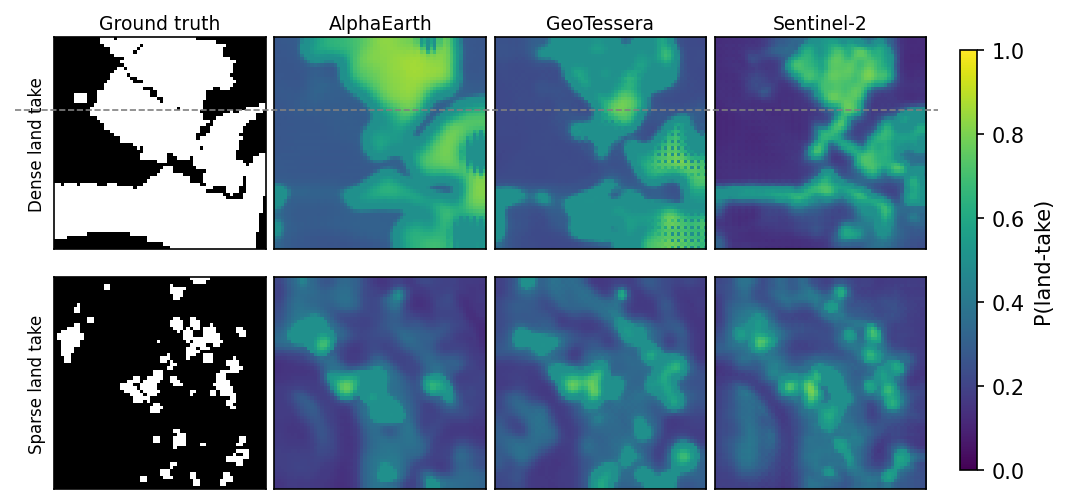
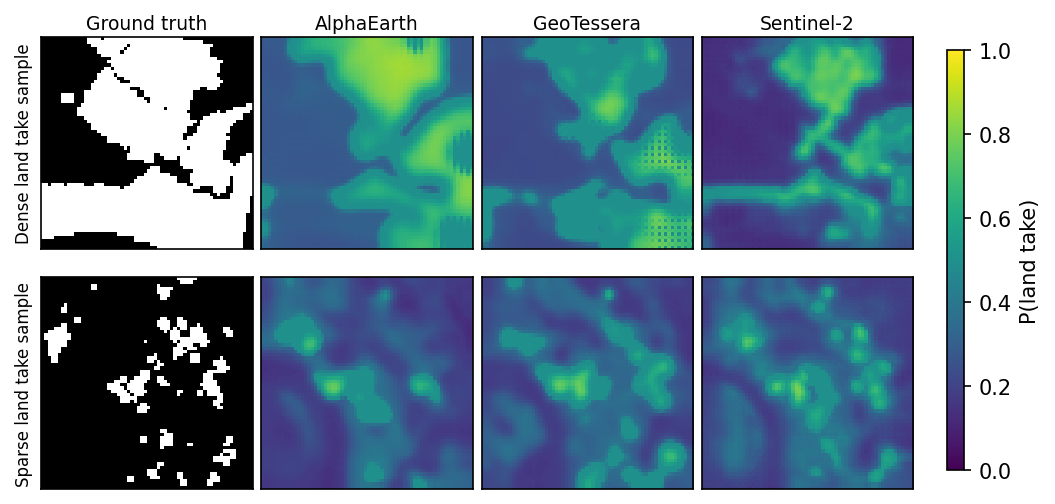
fix: smll figure adjustments

diff --git a/scripts/plot_qualitative_modality.py b/scripts/plot_qualitative_modality.py
@@ -111,7 +111,7 @@ for tile_label, (refid, fold) in TILES.items():
 # ---------------------------------------------------------------------------
 
 tile_labels = list(TILES.keys())
-tile_display = {"dense": "Dense land take", "sparse": "Sparse land take"}
+tile_display = {"dense": "Dense land take sample", "sparse": "Sparse land take sample"}
 col_titles = ["Ground truth"] + [MOD_LABELS[m] for m in MODALITIES]
 n_rows = len(tile_labels)
 
@@ -134,15 +134,10 @@ for row, tile_label in enumerate(tile_labels):
 for col, title in enumerate(col_titles):
     axes[0, col].set_title(title, fontsize=9, pad=4)
 
-line_y = 0.5 / n_rows
-fig.add_artist(plt.Line2D([0.09, 0.91], [1 - line_y, 1 - line_y],
-                           transform=fig.transFigure,
-                           color="gray", linewidth=0.8, linestyle="--"))
-
 cax = fig.add_axes([0.93, 0.15, 0.015, 0.7])
 sm = plt.cm.ScalarMappable(cmap="viridis", norm=plt.Normalize(0, 1))
 sm.set_array([])
-fig.colorbar(sm, cax=cax, label="P(land-take)")
+fig.colorbar(sm, cax=cax, label="P(land take)")
 
 plt.savefig(OUT_DIR / "qualitative_modality.pdf", bbox_inches="tight", dpi=150)
 plt.savefig(OUT_DIR / "qualitative_modality.png", bbox_inches="tight", dpi=150)